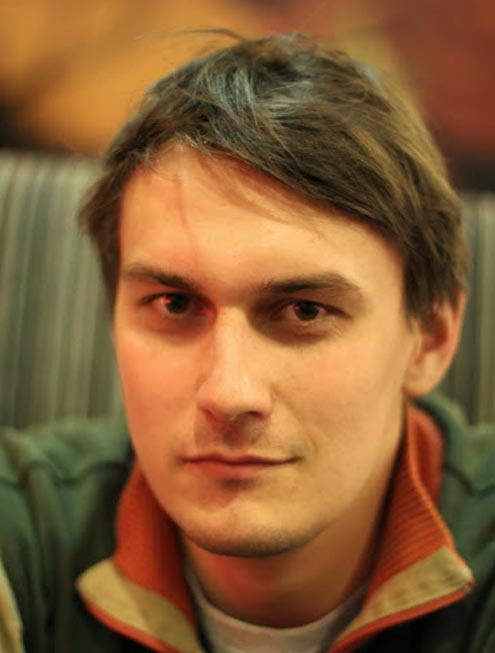
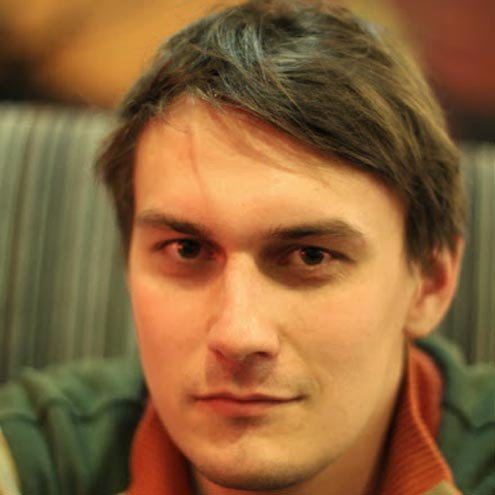
About fixed

diff --git a/server/router.js b/server/router.js
@@ -4,14 +4,12 @@ var express = require('express'),
 	resourcesRouter = require('./resources/resourcesRouter'),
     scheduleRouter = require('./schedule/scheduleRouter'),   
     usersRouter = require('./users/usersRouter'),   
-    aboutRouter = require('./about/aboutRouter'),
     contributorsRouter = require('./contributors/contributorsRouter');
 
 router.use(/^\/events/, eventsRouter);
 router.use(/^\/resources/, resourcesRouter);
 router.use(/^\/schedule/, scheduleRouter);
 router.use(/^\/users/, usersRouter);
-router.use(/^\/about/, aboutRouter);
 router.use(/^\/contributors/, contributorsRouter);
 
 router.get(/^\/reset$/, function(req, res, next) {		
@@ -31,7 +29,6 @@ router.get('*', function (req, res) {
             'schedule',
             'resources',
             'users', 
-            'about',
             'contributors', 
             '.css', 
             '.js', 

diff --git a/client/js/app/About/view/GroupView.js b/client/js/app/About/view/GroupView.js
@@ -17,7 +17,7 @@
         },
 
         render: function () {
-            this.$el.html(this.template(this.model.toJSON()));
+            this.$el.html(this.template(this.model.attributes));
             this.$('.contributors-name-container').append(this.inner.render(this.model.id).el);
             return this;
         }

diff --git a/client/js/app/About/view/ContributorInfoView.js b/client/js/app/About/view/ContributorInfoView.js
@@ -10,7 +10,7 @@
         template: contributorFullInfoTpl,
 
         render: function (itaName) {
-		    var modelJSON = this.model.toJSON();
+		    var modelJSON = this.model;
 			
             this.tooltip = This.Tooltip;
     		modelJSON.itaName = itaName;

diff --git a/client/css/app/ServicePages/Tooltip.css b/client/css/app/ServicePages/Tooltip.css
@@ -38,13 +38,14 @@
 .contributors-names-container {
     display: inline-block;
 	width: 125px;
-    height: 160px;
+    height: 125px;
     margin-top: 10px;
     margin-left: 10px;
 }
 
 .foto {
     width: 125px;
+	box-shadow: 10px 9px 15px;
 }
 
 .row {

diff --git a/client/js/app/About/view/ContributorsView.js b/client/js/app/About/view/ContributorsView.js
@@ -20,7 +20,7 @@
             },
 
             render: function () {
-                this.$el.html(this.template(this.model.toJSON()));
+                this.$el.html(this.template(this.model));
 
                 return this;
             },

diff --git a/client/js/app/About/Group.js b/client/js/app/About/Group.js
@@ -7,7 +7,8 @@
             'id': '',
 			'name': '',
             'itaName': '',
-            'courseDirection': ''
+            'courseDirection': '',
+            'students': ''
         }
     });
 })(App.About);

diff --git a/client/js/app/About/Tooltip.js b/client/js/app/About/Tooltip.js
@@ -35,7 +35,7 @@
             },
 
             hide: function () {
-                $('.showFullInfo').css('display','none');
+                $('.showFullInfo').remove();
             }
         };
     })();

diff --git a/client/js/app/About/ContributorCollection.js b/client/js/app/About/ContributorCollection.js
@@ -3,7 +3,7 @@
 (function (This) {
     This.ContributorCollection = Backbone.Collection.extend({
 
-        url: '/about/Contributors',
+        url: '/contributors',
 
         model: This.Contributor
 

diff --git a/client/js/app/About/GroupCollection.js b/client/js/app/About/GroupCollection.js
@@ -3,7 +3,7 @@
 (function (This) {
     This.GroupCollection = Backbone.Collection.extend({
 
-        url: '/about',
+        url: '/contributors',
 
         model: This.Group
     });
